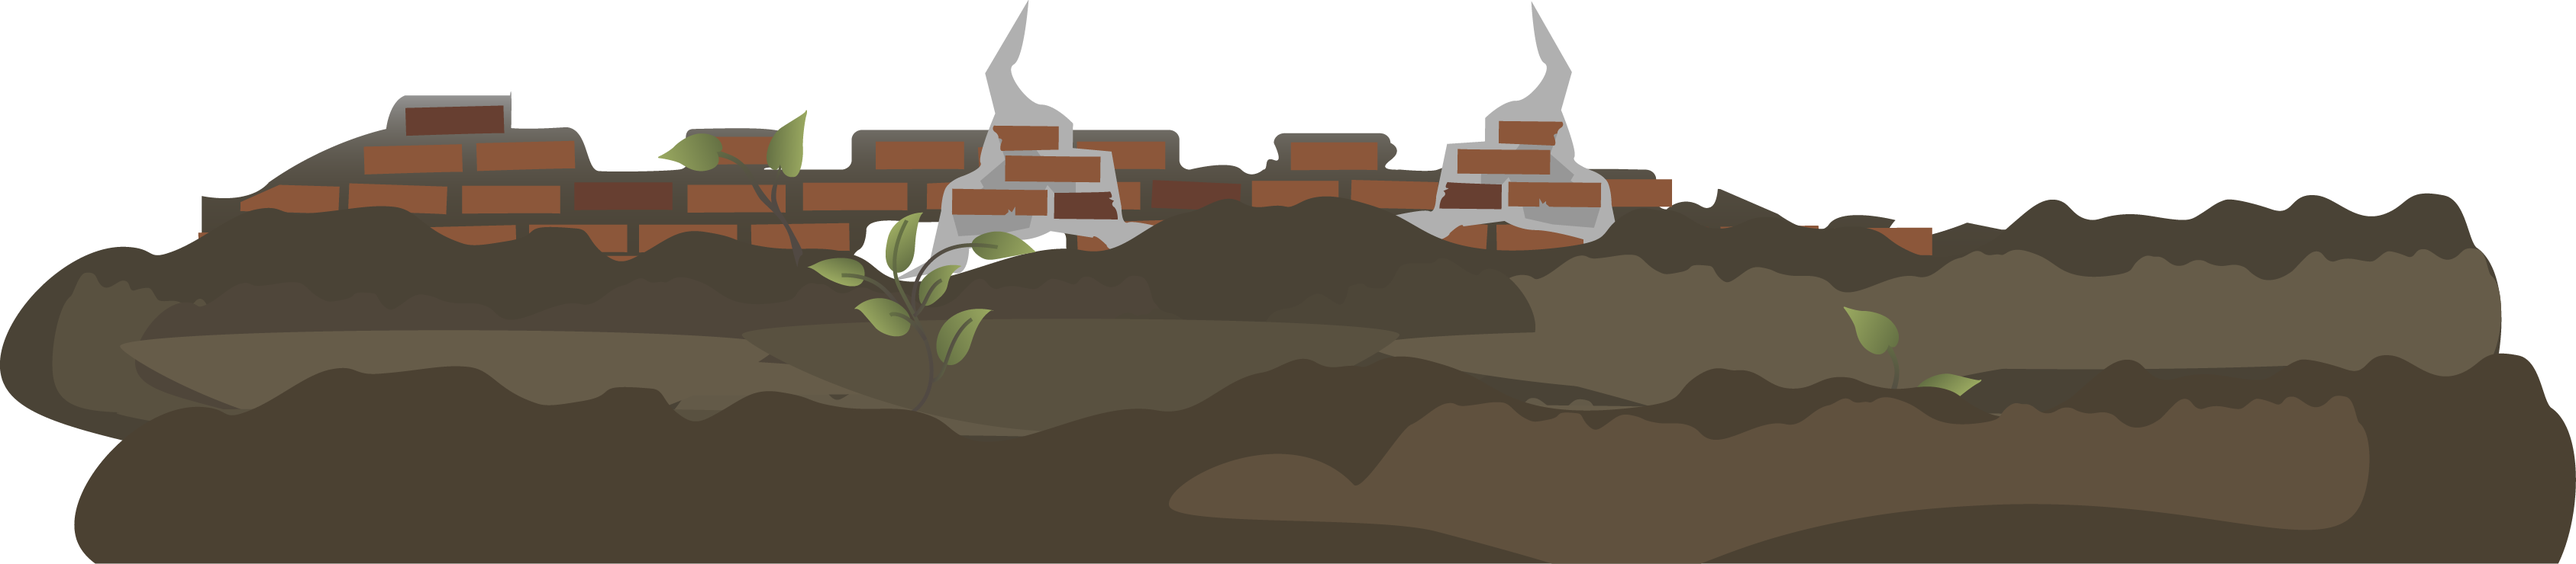
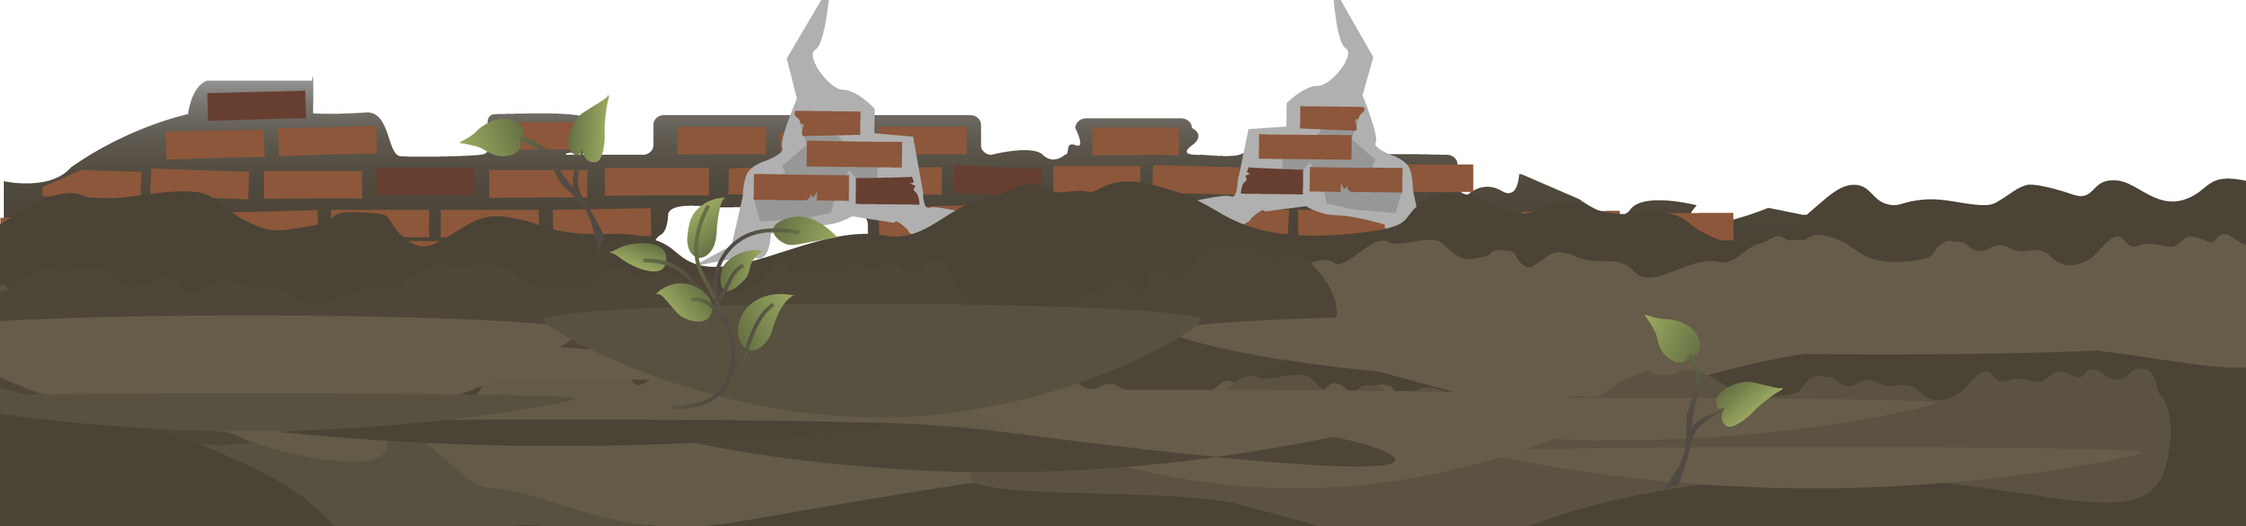
Footer v1

diff --git a/src/styles/main.css b/src/styles/main.css
@@ -510,7 +510,8 @@ only screen and (                min-resolution: 2dppx) {
 /* Footer section */
 .section--footer{
   max-width: none;
-  padding-bottom: 0;
+  position: relative;
+  color: var(--text-light);
 }
 
 /* Legal */
@@ -526,7 +527,7 @@ only screen and (                min-resolution: 2dppx) {
 }
 .legal__separator{
   line-height: 1;
-  color: var(--gray-light);
+  opacity: 0.5;
 }
 
 /* Last year & Signature */
@@ -535,7 +536,6 @@ only screen and (                min-resolution: 2dppx) {
   display: none;
 }
 .signature{
-  scroll-padding-bottom: 16px;
 }
 .signature__link{
   color: inherit;
@@ -559,6 +559,7 @@ only screen and (                min-resolution: 2dppx) {
 }
 .contact__icon{
   width: 1.25em;
+  min-width: 20px;
 }
 .contact:hover{
   transform: scale(1.25);

diff --git a/src/index.html b/src/index.html
@@ -481,6 +481,13 @@
 
 		<q class="signature"><b>Made</b> with ❤ by <b><a class="signature__author" href="https://hackersatupc.org/"
 					hreflang="en">Hackers@UPC</a></b></q>
+
+		<div class="no-overflow no-overflow--footer">
+			<img class="footer__img" src="/assets/img/hero/1x/footer.png" srcset="/assets/img/hero/1.5x/footer%401.5x.png 1.5x,
+								/assets/img/hero/2x/footer%402x.png 2x,
+								/assets/img/hero/3x/footer%403x.png 3x,
+								/assets/img/hero/4x/footer%404x.png 4x" alt="Dirt with some plants">
+		</div>
 	</footer>
 
 <script>

diff --git a/src/styles/test.css b/src/styles/test.css
@@ -4,3 +4,14 @@
  * You should see it empty in production.
  */
 
+ .footer__img{
+  width: 100%;
+  min-width: 1000px;
+}
+.no-overflow--footer{
+  position: absolute;
+  bottom: 0; left: 0; right: 0;
+  display: flex;
+  justify-content: center;
+  z-index: -1;
+}
